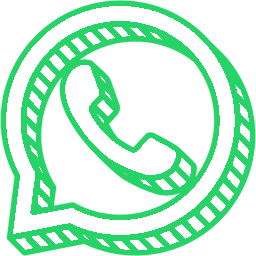
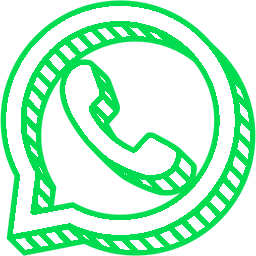
Add Hall of Fame section and update WhatsApp greens

Changed region(s): [[0.0625, 0.0625, 0.875, 0.875], [0.0, 0.0, 1.0, 1.0]]

diff --git a/src/components/HallOfFame.tsx b/src/components/HallOfFame.tsx
@@ -1,0 +1,46 @@
+import React from 'react';
+import { Award, Star } from 'lucide-react';
+
+const results = [
+  { exam: "JAMB 2023", score: "315", student: "Oluwaseun A.", subject: "Admitted: Medicine & Surgery" },
+  { exam: "WAEC 2023", score: "7 A1s", student: "Chidera N.", subject: "Science Department" },
+  { exam: "JAMB 2022", score: "298", student: "Aisha M.", subject: "Admitted: Law" },
+  { exam: "NECO 2023", score: "8 Distinctions", student: "Daniel K.", subject: "Commercial Department" }
+];
+
+const HallOfFame: React.FC = () => {
+  return (
+    <section id="results" className="py-24 bg-white relative border-t border-gray-50">
+      <div className="max-w-7xl mx-auto px-4 sm:px-6 lg:px-8">
+        <div className="text-center max-w-3xl mx-auto mb-16">
+          <div className="flex justify-center mb-4">
+            <Award className="h-12 w-12 text-brand-gold" />
+          </div>
+          <h2 className="text-3xl md:text-5xl font-bold leading-tight text-brand-dark mb-4">
+            The Hall of <span className="italic font-light text-brand-gold">Fame.</span>
+          </h2>
+          <p className="text-gray-600 text-lg">Consistent academic excellence. Our track record speaks for itself.</p>
+        </div>
+
+        <div className="grid grid-cols-1 md:grid-cols-2 lg:grid-cols-4 gap-6">
+          {results.map((result, idx) => (
+            <div key={idx} className="bg-white border border-gray-100 p-8 rounded-xl shadow-[0_8px_30px_rgb(0,0,0,0.04)] hover:shadow-[0_8px_30px_rgb(0,0,0,0.08)] hover:-translate-y-1 transition-all duration-300 relative overflow-hidden group">
+              <div className="absolute -top-4 -right-4 p-4 opacity-5 group-hover:opacity-10 transition-opacity">
+                <Star className="w-32 h-32 text-brand-dark fill-current" />
+              </div>
+              <div className="relative z-10">
+                <p className="text-sm font-semibold text-brand-gold uppercase tracking-widest mb-2">{result.exam}</p>
+                <h3 className="text-4xl md:text-5xl font-black text-brand-dark font-serif mb-6 tracking-tight">{result.score}</h3>
+                <div className="w-12 h-1 bg-brand-gold/20 mb-6 group-hover:bg-brand-gold transition-colors"></div>
+                <p className="font-bold text-gray-800 text-lg">{result.student}</p>
+                <p className="text-sm text-gray-500 mt-1">{result.subject}</p>
+              </div>
+            </div>
+          ))}
+        </div>
+      </div>
+    </section>
+  );
+};
+
+export default HallOfFame;

diff --git a/src/components/Contact.tsx b/src/components/Contact.tsx
@@ -29,7 +29,7 @@ const Contact: React.FC = () => {
                   href="https://wa.me/2348164101457" 
                   target="_blank" 
                   rel="noreferrer"
-                  className="inline-flex items-center gap-2 mt-2 text-sm text-gray-700 font-medium hover:text-brand-dark hover:underline transition-colors"
+                  className="inline-flex items-center gap-2 mt-2 text-sm text-green-500 font-bold hover:text-green-600 hover:underline transition-colors"
                 >
                   <svg className="w-5 h-5" fill="currentColor" viewBox="0 0 24 24" aria-hidden="true">
                     <path fillRule="evenodd" d="M12.031 0C5.402 0 .016 5.385.016 12.016c0 2.115.553 4.18 1.603 5.992L.032 24l6.16-1.616c1.761 1 3.766 1.528 5.839 1.528 6.627 0 12.013-5.385 12.013-12.016C24.044 5.385 18.658 0 12.031 0zm-.016 21.905c-1.802 0-3.562-.485-5.11-1.403l-.367-.217-3.799.996.996-3.702-.238-.378a10.057 10.057 0 01-1.543-5.384c0-5.545 4.512-10.057 10.061-10.057 5.548 0 10.06 4.512 10.06 10.057 0 5.547-4.512 10.058-10.06 10.058zm5.518-7.53c-.302-.152-1.794-.886-2.07-.988-.276-.102-.477-.152-.678.152-.201.303-.781.988-.958 1.19-.176.202-.353.228-.654.076-1.526-.777-2.673-1.41-3.69-3.14-.202-.345.201-.318.647-.912.1-.152.05-.278 0-.43-.05-.151-.678-1.636-.928-2.241-.242-.587-.487-.507-.678-.517h-.578c-.201 0-.528.076-.804.38s-1.056 1.036-1.056 2.527 1.082 2.932 1.233 3.134c.15.203 2.137 3.262 5.176 4.57 2.05.88 2.89.967 3.966.814 1.157-.165 3.565-1.458 4.067-2.868.503-1.41.503-2.619.352-2.868-.15-.253-.552-.405-.853-.557z" clipRule="evenodd" />

diff --git a/src/App.tsx b/src/App.tsx
@@ -4,6 +4,7 @@ import About from './components/About';
 import Courses from './components/Courses';
 import Features from './components/Features';
 import Testimonials from './components/Testimonials';
+import HallOfFame from './components/HallOfFame';
 import Contact from './components/Contact';
 import Footer from './components/Footer';
 import FloatingWhatsApp from './components/FloatingWhatsApp';
@@ -17,6 +18,7 @@ function App() {
         <About />
         <Courses />
         <Features />
+        <HallOfFame />
         <Testimonials />
         <Contact />
       </main>

diff --git a/recolor.py b/recolor.py
@@ -7,8 +7,8 @@ img = Image.open(image_path)
 img = img.convert("RGBA")
 datas = img.getdata()
 
-# WhatsApp Green is roughly (37, 211, 102) -> #25D366
-target_color = (37, 211, 102)
+# A much more vibrant, brighter green
+target_color = (0, 220, 80)
 
 new_data = []
 for item in datas:
